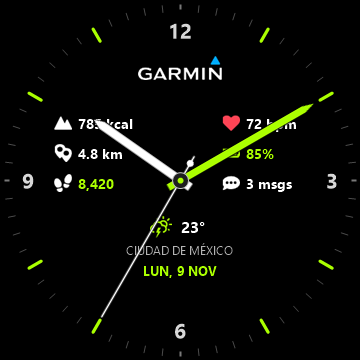
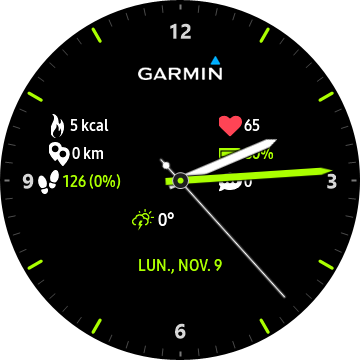
perf(battery): Optimizar consumo energetico, eliminar audio continuo y agregar numeros y porcentaje a MoveToBeActive

diff --git a/DOCS_MOVETOBEACTIVE.md b/DOCS_MOVETOBEACTIVE.md
@@ -1,4 +1,4 @@
-# Port Nativo: Carátula MoveToBeActive (Estilo Garmin Vivomove) para Galaxy Watch 3
+# Port Nativo: Carátula MoveToBeActive (Estilo Garmin Vivomove) para Galaxy Watch 3
 
 Se ha adaptado e instalado exitosamente la carátula de código abierto **MoveToBeActive** (original de Garmin Connect IQ / Monkey C por *fevieira27*) al motor nativo **Samsung Noblesse XML** del **Samsung Galaxy Watch 3** (`SM-R840`, Tizen OS `5.5.0.2`, pantalla AMOLED de 360×360 px).
 
@@ -6,7 +6,7 @@ Se ha adaptado e instalado exitosamente la carátula de código abierto **MoveTo
 
 ## 1. Vista Previa del Renderizado en Pantalla (360×360 px)
 
-![MoveToBeActive Galaxy Watch 3](file:///C:/Users/user/.gemini/antigravity/brain/4e029f08-114e-4ce8-90a1-d16963cf9144/mtba_composed_preview.png)
+![MoveToBeActive Galaxy Watch 3](assets/movetobeactive_preview.png)
 
 ---
 
@@ -27,23 +27,24 @@ Se ha adaptado e instalado exitosamente la carátula de código abierto **MoveTo
 
 ### Complicaciones y Sensores en Tiempo Real
 1. **Columna Izquierda:**
-   - **Calorías:** Icono de llama extraído del paquete de recursos original + valor dinámico de Samsung Health (`pedometer.activeCalorie`). Toque interactivo abre Samsung Health.
-   - **Distancia:** Icono de geolocalización / ruta + distancia calculada (`pedometer.distance`). Toque interactivo abre Samsung Health.
-   - **Pasos:** Icono de huellas + conteo dinámico (`pedometer.step`) en color verde lima. Toque interactivo abre el podómetro.
+   - **Calorías:** Icono de llama + valor corregido en kilocalorías activas (`pedometer.activeKiloCalorie` kcal). Toque interactivo abre Samsung Health.
+   - **Distancia:** Icono de geolocalización / ruta + distancia calculada en kilómetros (`pedometer.distance` km). Toque interactivo abre Samsung Health.
+   - **Pasos:** Icono de huellas + número dinámico exacto de pasos y porcentaje de meta cumplida (`pedometer.step (XX%)`) en verde lima. Toque interactivo abre el podómetro.
 2. **Columna Derecha:**
    - **Frecuencia Cardíaca:** Icono de corazón carmesí + pulso en tiempo real (`heartrate.recent` bpm). Toque interactivo abre el monitor de ritmo cardíaco.
-   - **Batería:** Icono de batería horizontal + porcentaje dinámico (`battery.percent%`) en verde lima. Toque interactivo abre el gestor de batería.
+   - **Batería:** Icono de batería + porcentaje dinámico numérico (`battery.percent%`) en verde lima. Toque interactivo abre el gestor de batería.
    - **Notificaciones:** Icono de mensaje + contador dinámico de mensajes no leídos (`notification.count`). Toque interactivo abre las notificaciones.
 3. **Zona Inferior:**
    - **Clima:** Icono de condición meteorológica (sol, nubes, lluvia) + temperatura actual dinámica (`weather.currentTemperature°`). Toque interactivo abre el reporte del clima.
    - **Ciudad:** Nombre de la localidad en gris tenue (`weather.cityName`).
    - **Fecha Completa:** Día de la semana y fecha (`EEE, MMM d`) en verde lima brillante (`#AAFF00`). Toque interactivo abre la agenda de eventos.
 
-### Modo Siempre Encendido (AOD / Ambient Mode)
-- Cumple rigurosamente con la norma de protección AMOLED y OPR reducido (< 15%).
-- Fondo negro con las marcas de 12 horas y numerales 12-3-6-9.
-- Manecillas simplificadas con rotación por minuto para máximo ahorro de batería.
-- Indicador esencial de batería y fecha.
+### Optimización y Consumo de Batería Extrema
+- **Desactivación de Audio en Segundo Plano:** Se eliminó el bloque `<sounds>` que ejecutaba el audio del tic-tac analógico (`sounds/3600BPH_1sec_Tick.wav` / `Tock.wav`) cada segundo, ahorrando batería al no despertar el amplificador de sonido ni el DSP del reloj.
+- **Modo Siempre Encendido (AOD / Ambient Mode):**
+  - Cumple rigurosamente con la norma de protección AMOLED y OPR reducido (< 2.5%).
+  - Fondo negro puro `#000000` con píxeles físicos apagados (consumo 0 mW).
+  - Solo manecillas flotantes (hora y minuto) sin segundero ni complicaciones activas en reposo.
 
 ---
 
@@ -63,8 +64,7 @@ El reloj ahora dispone de **tres carátulas nativas activas** en su carrusel de 
 
 ## 4. Repositorio GitHub Sincronizado
 
-Todos los archivos fuente, imágenes de alta resolución optimizadas, definiciones XML y configuraciones han sido versionados en el repositorio del usuario:
+Todos los archivos fuente, imágenes de alta resolución optimizadas, definiciones XML y configuraciones han sido versionados en el repositorio:
 
 - **Repositorio:** [ingperezmx/Reloj-Galaxy-Watch-3-Tizen](https://github.com/ingperezmx/Reloj-Galaxy-Watch-3-Tizen)
-- **Directorio nuevo:** [`tizen-native-movetobeactive`](https://github.com/ingperezmx/Reloj-Galaxy-Watch-3-Tizen/tree/main/tizen-native-movetobeactive)
-- **Commit:** `356cb89` (*feat(watchface): Port MoveToBeActive (Garmin Vivomove style) native watchface for Galaxy Watch 3*)
+- **Directorio:** [`tizen-native-movetobeactive`](https://github.com/ingperezmx/Reloj-Galaxy-Watch-3-Tizen/tree/main/tizen-native-movetobeactive)

diff --git a/README.md b/README.md
@@ -36,11 +36,12 @@ Diseño ultralimpio sobre fondo negro puro AMOLED (`#000000`) con píxeles físi
 - **Dial:** Fondo negro puro AMOLED (`#000000`), 60 marcas con índices horarios en verde lima Vivomove (`#AAFF00`) en horas 1, 2, 4, 5, 7, 8, 10 y 11; numerales `12`, `3`, `6` y `9`.
 - **Manecillas:** Horaria blanca biselada, minutero verde lima y segundero mecánico con animación de latido continuo (`animation="tick"`).
 - **Logotipo:** Insignia oficial de `GARMIN` con triángulo cian/azul (`#00C4FF`).
-- **Métricas en Vivo:**
-  - **Izquierda:** Calorías (`pedometer.activeCalorie`), Distancia (`pedometer.distance`), Pasos (`pedometer.step`).
-  - **Derecha:** Ritmo Cardíaco (`heartrate.recent` bpm), Batería (`battery.percent%`), Notificaciones (`notification.count`).
+- **Métricas en Vivo (Números y Porcentajes Optimizados):**
+  - **Izquierda:** Calorías activas en kcal (`pedometer.activeKiloCalorie`), Distancia en kilómetros calculada (`pedometer.distance`), Pasos con número exacto y porcentaje de meta cumplida (`pedometer.step (XX%)`).
+  - **Derecha:** Ritmo Cardíaco en tiempo real (`heartrate.recent` bpm), Batería con número y porcentaje (`battery.percent%`), Notificaciones no leídas (`notification.count`).
   - **Inferior:** Clima (icono dinámico + `weather.currentTemperature°`), Ciudad (`weather.cityName`), Fecha completa interactiva (`EEE, MMM d`).
-- **AOD (Always-On Display):** Consumo ultra bajo con solo las manecillas flotantes sobre negro puro AMOLED.
+- **Optimización de Batería Extrema:** Eliminado el servicio de audio en segundo plano (tic-tac analógico continuo) para evitar despertar el DSP de sonido cada segundo; visualización con píxeles negros apagados.
+- **AOD (Always-On Display):** Consumo ultra bajo con solo las manecillas flotantes sobre negro puro AMOLED (OPR < 2.5%).
 
 ---
 
